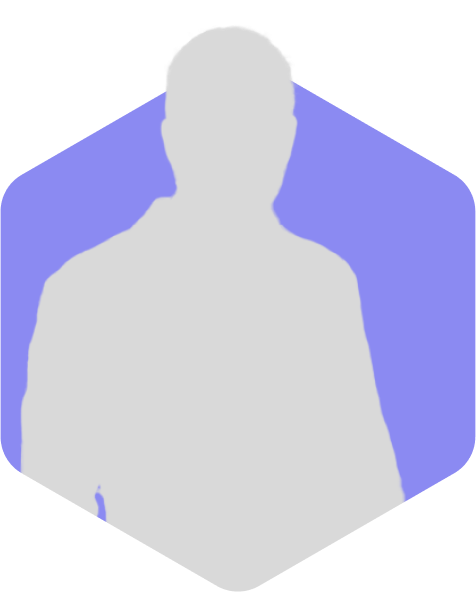
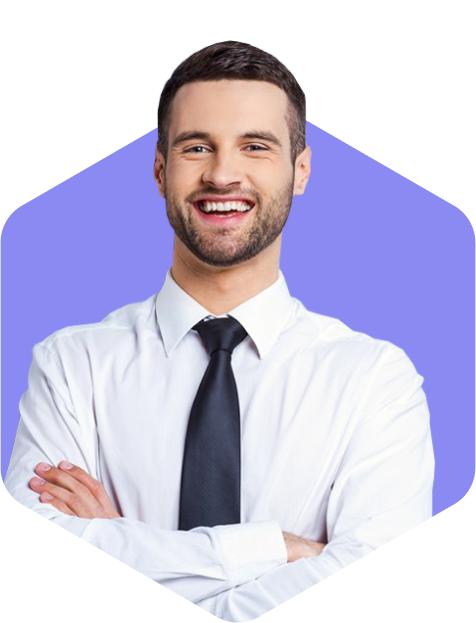
Change owner image

diff --git a/src/index.html b/src/index.html
@@ -331,8 +331,8 @@
               <img
                 src="./img/history-owner.png"
                 alt="Фотография основателя"
-                width="648"
-                height="648"
+                width="560"
+                height="833"
                 class="history__owner-img"
               />
               <p class="history__owner-name">Макеев Максим Сергеевич</p>

diff --git a/src/thanks.html b/src/thanks.html
@@ -163,7 +163,7 @@
                 <img
                   src="./img/thanks-owner.png"
                   width="475"
-                  height="592"
+                  height="621"
                   alt="Фото основателя"
                   class="thanks__owner-img"
                 />

diff --git a/src/scss/components/_history.scss b/src/scss/components/_history.scss
@@ -82,8 +82,8 @@
 
 .history__owner-box {
   position: absolute;
-  left: -660px;
-  top: 10px;
+  left: -670px;
+  top: -200px;
 
   @media (max-width: 1150px) {
     position: relative;

diff --git a/src/scss/thanks.scss b/src/scss/thanks.scss
@@ -252,7 +252,7 @@
 .thanks__owner-box {
   position: absolute;
   right: -274px;
-  top: 20px;
+  top: -8px;
 
   @media (max-width: 1020px) {
     position: relative;
